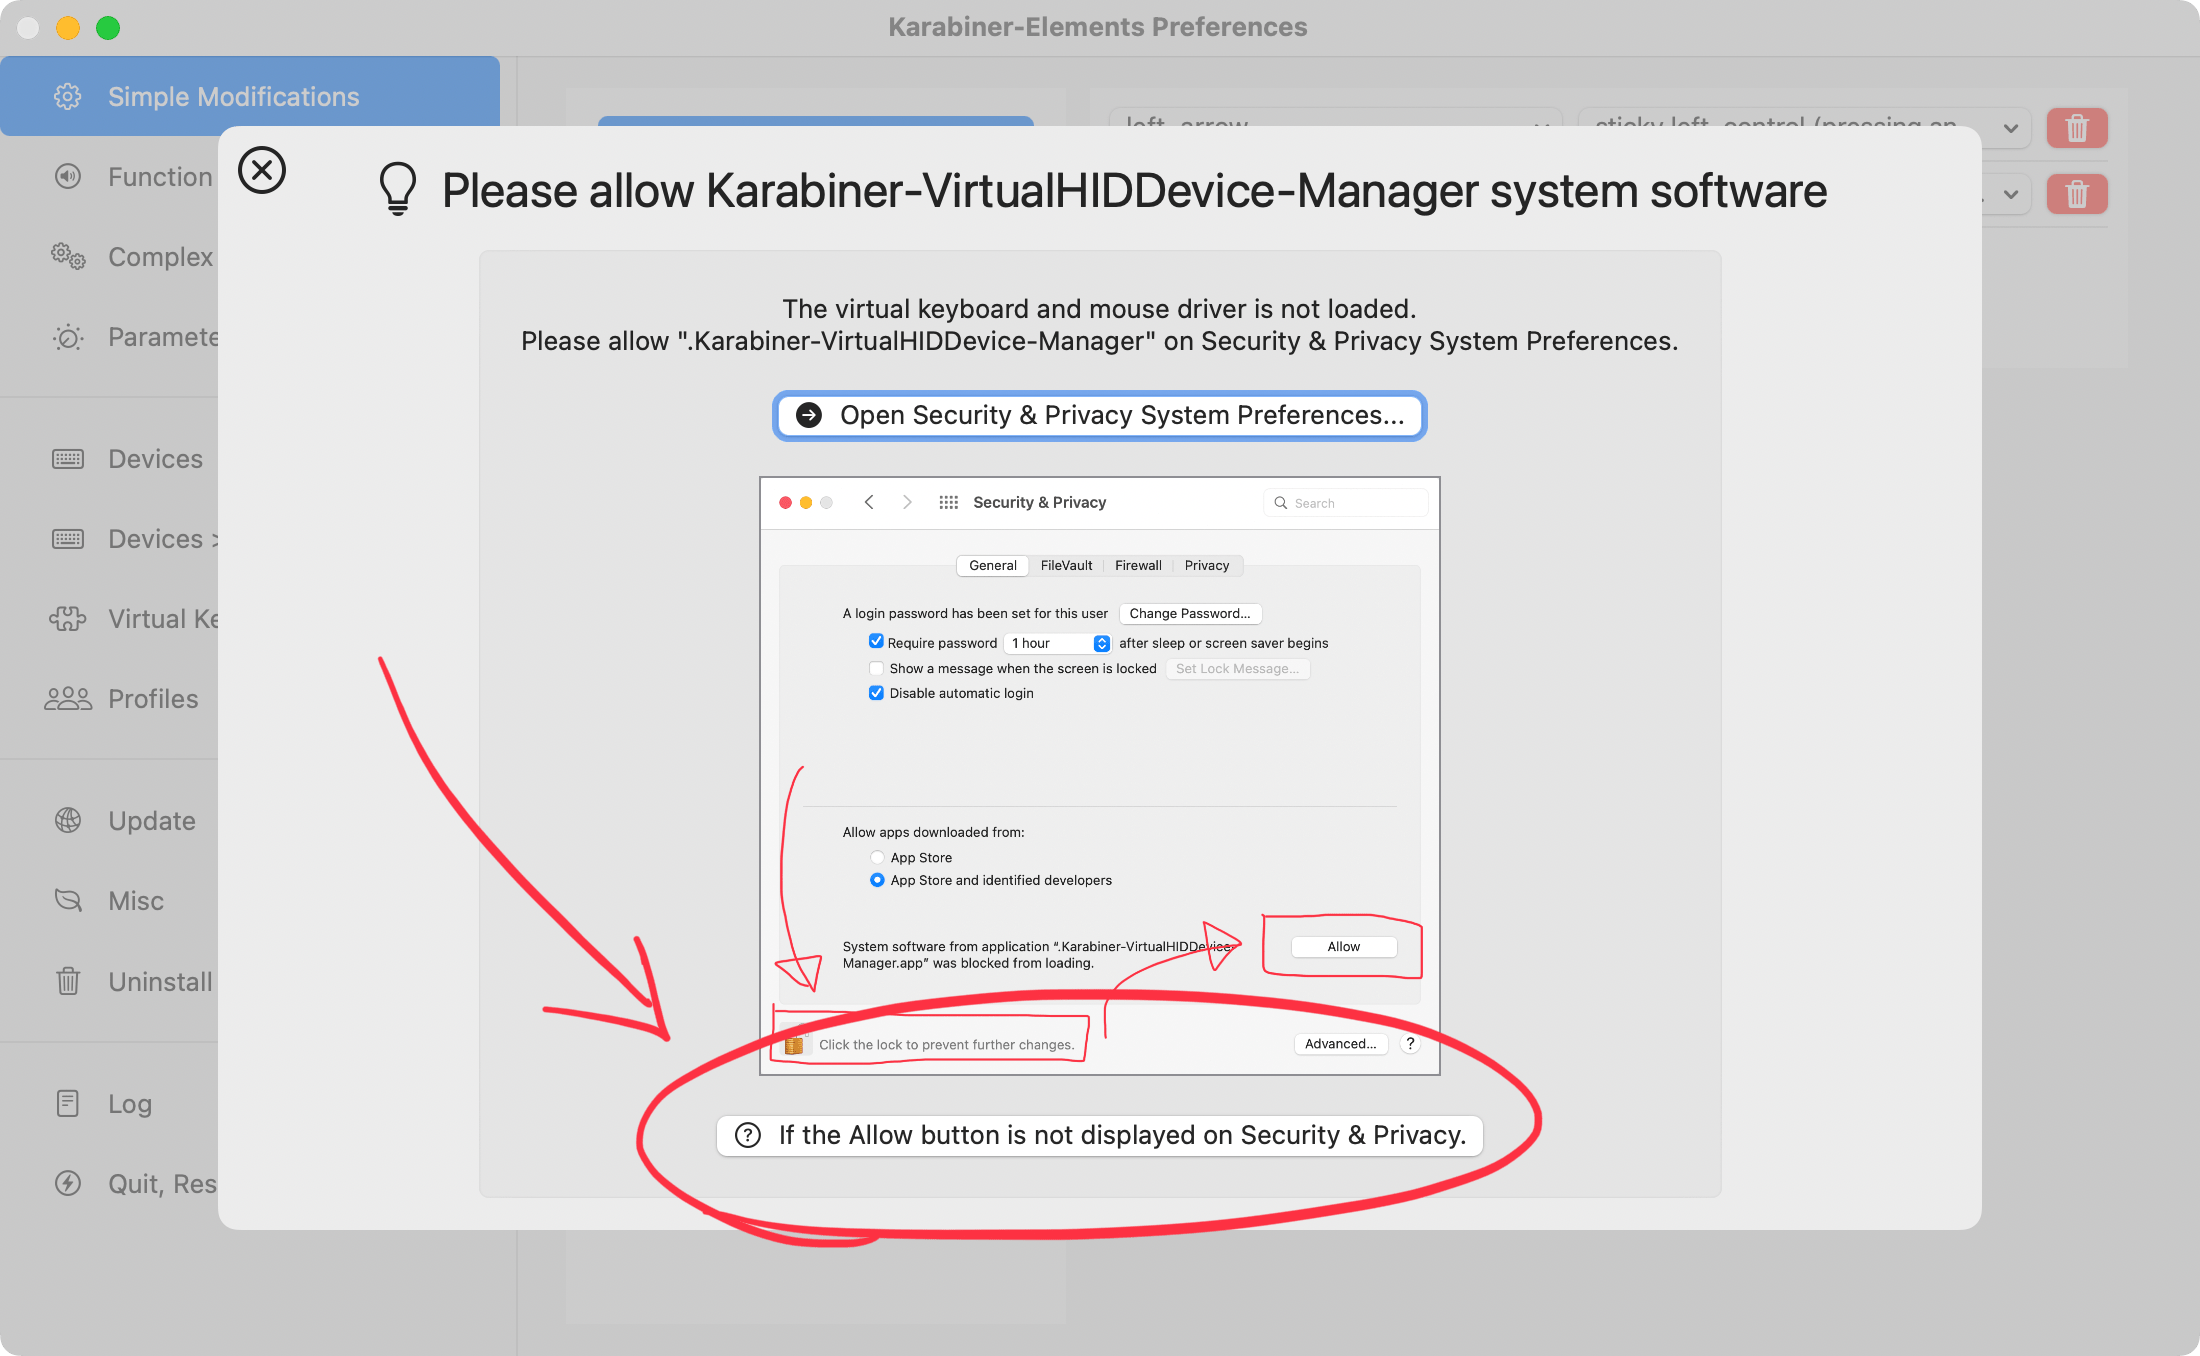
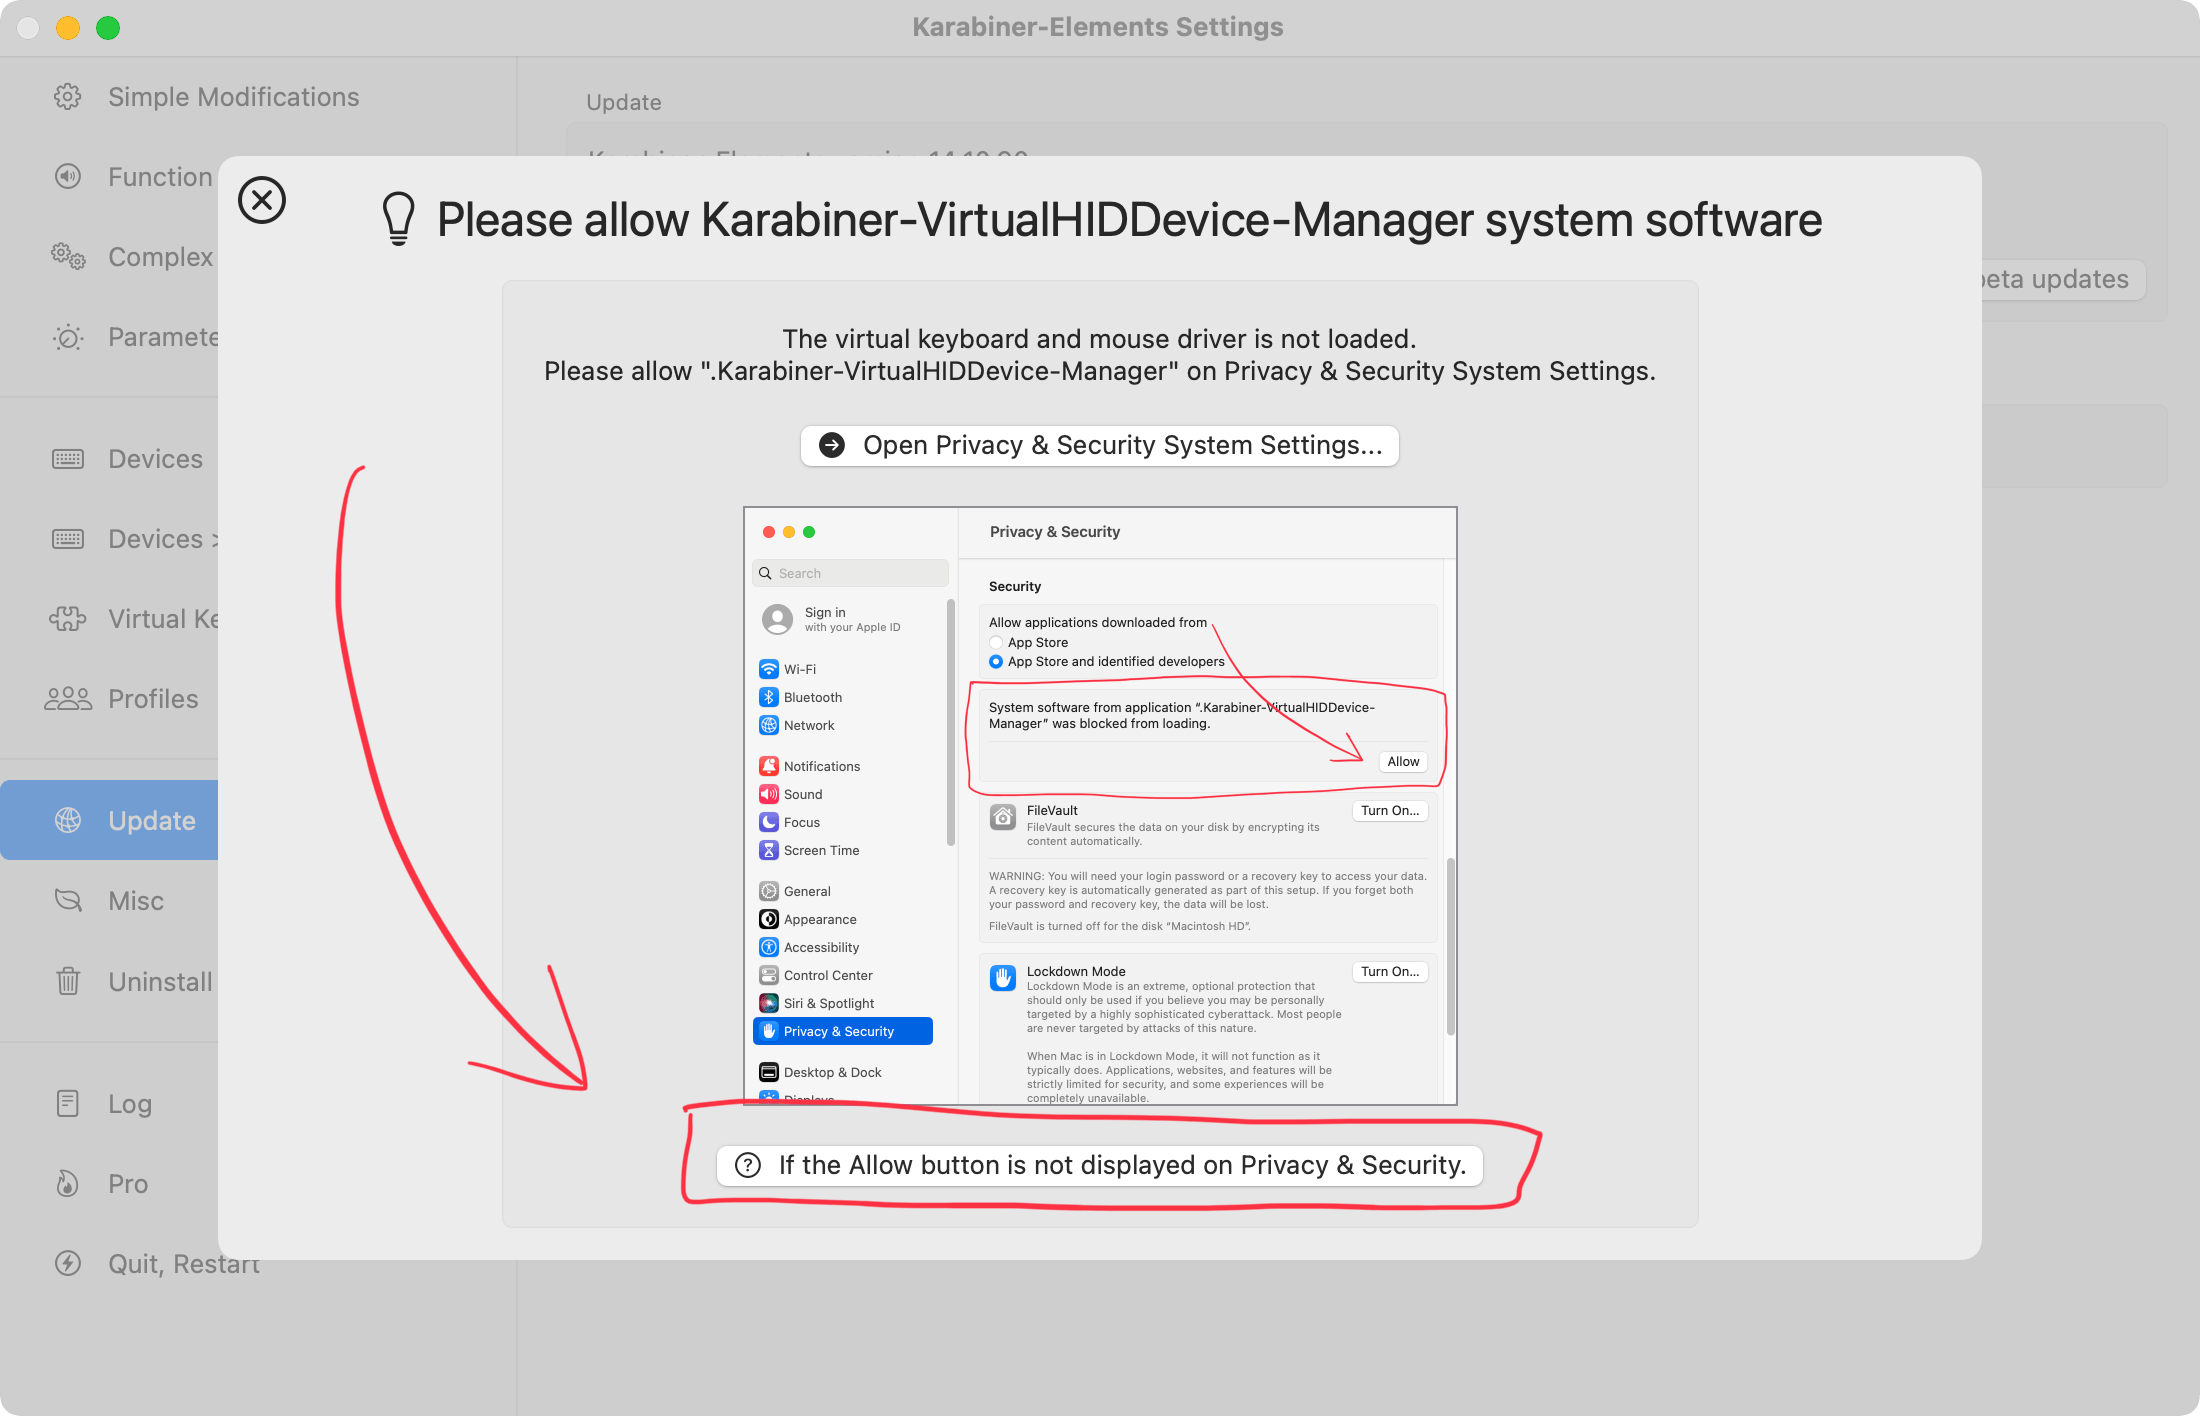
Update help/troubleshooting/driver-alert-keeps-showing-up

diff --git a/sites/karabiner-elements/content/en/docs/help/troubleshooting/driver-alert-keeps-showing-up/index.md b/sites/karabiner-elements/content/en/docs/help/troubleshooting/driver-alert-keeps-showing-up/index.md
@@ -3,9 +3,9 @@ title: 'Driver alert keeps showing up'
 weight: 10
 ---
 
-Usually, the following driver alert will appear on first start-up and the alert will disappear after you allow the system software from System Preferences.
+Usually, the following driver alert will appear on first start-up and the alert will disappear after you allow the system software from System Settings.
 
-Unfortunately, the allow button may sometimes not appear in System Preferences due to a problem with macOS driver loading.<br />
+Unfortunately, the allow button may sometimes not appear in System Settings due to a problem with macOS driver loading.<br />
 In this case, you can display the allow button by deactivating and activating driver as described in the Advanced section on the alert.
 
 {{< local-image src="images/dext-alert-1@2x.png" >}}
